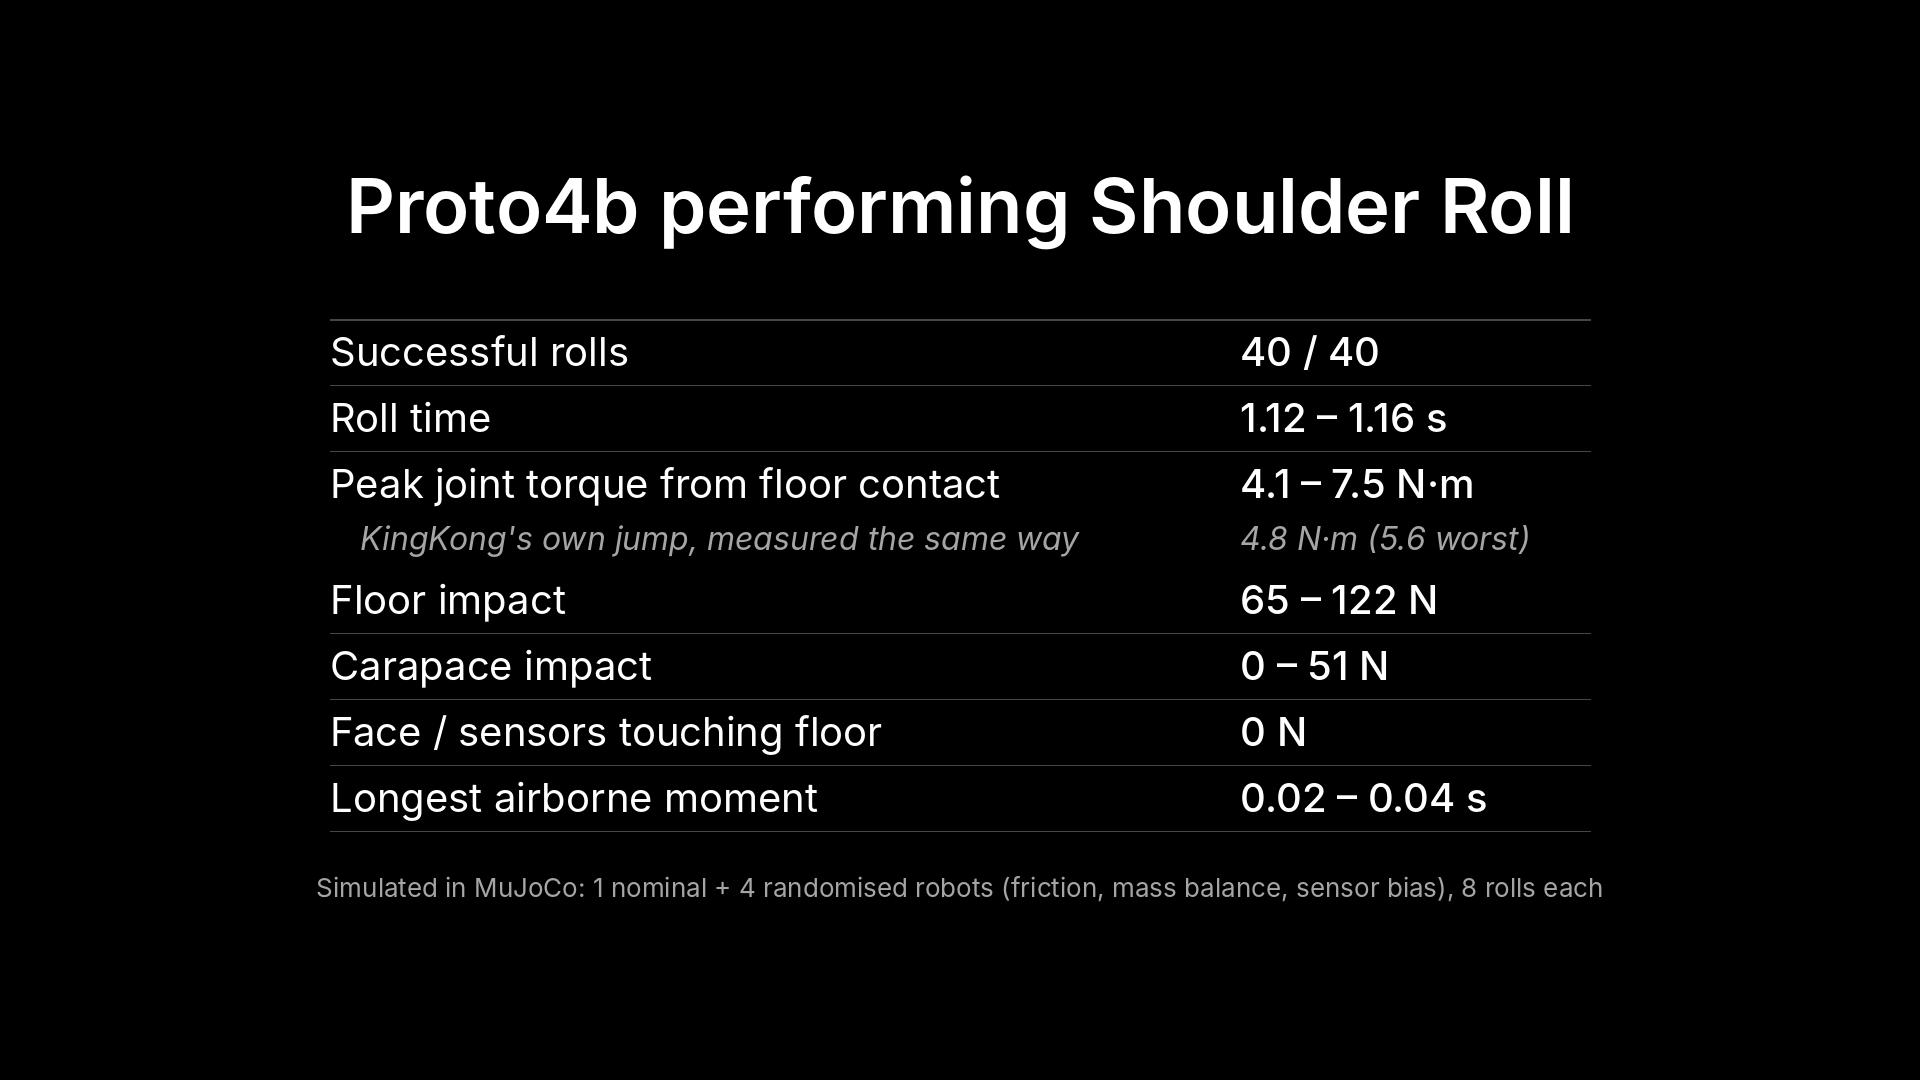
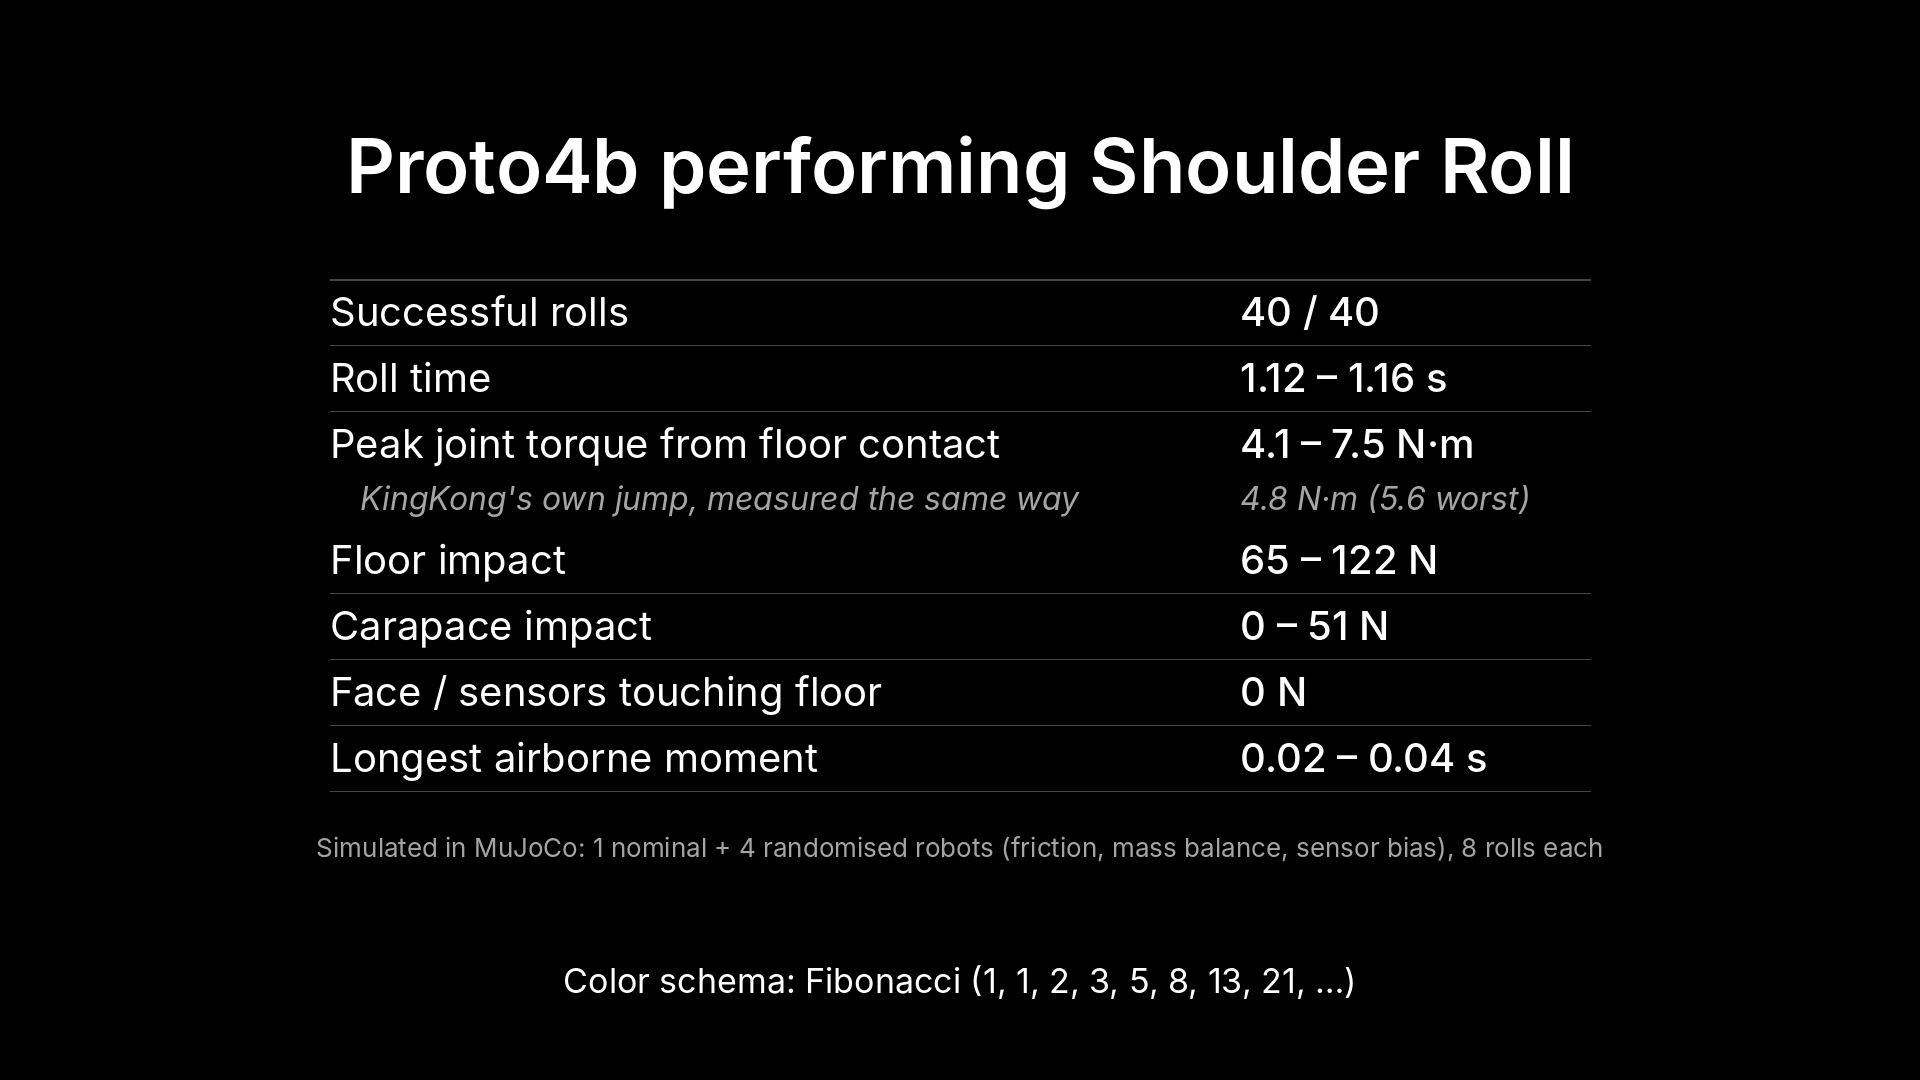
Footage slides: the colour pattern's sequence at the bottom
Claude-Session: https://claude.ai/code/session_018e6UqHzaryVWYHuwL5wCvh

Changed region(s): [[0.1562, 0.275, 0.8438, 0.825], [0.1562, 0.1222, 0.8438, 0.2444], [0.2812, 0.8861, 0.6875, 0.9167]]

diff --git a/studies/footage/make_slide.py b/studies/footage/make_slide.py
@@ -2,7 +2,8 @@
 
     python studies/footage/make_slide.py <slide.json> <out.png>
 
-slide.json: {"title": str, "rows": [[label, value, style?], ...], "footnote": str}.
+slide.json: {"title": str, "rows": [[label, value, style?], ...], "footnote": str,
+"schema": str (optional, the colour pattern, drawn at the bottom)}.
 A row whose style is "note" is drawn smaller, grey and italic (a comparison line).
 1920x1080, Inter.
 """
@@ -26,7 +27,7 @@ WHITE, GREY, LINE = (255, 255, 255), (165, 165, 165), (70, 70, 70)
 rows = spec["rows"]
 row_h = [66 if (r[2:] or [""])[0] != "note" else 50 for r in rows]
 table_h = sum(row_h)
-top = (H - (110 + 50 + table_h + 90)) // 2
+top = (H - (110 + 50 + table_h + 90)) // 2 - (40 if spec.get("schema") else 0)
 tw = dr.textlength(spec["title"], font=f_title)
 dr.text(((W - tw) / 2, top), spec["title"], font=f_title, fill=WHITE)
 y = top + 110 + 50
@@ -45,5 +46,9 @@ for r, rh in zip(rows, row_h):
             dr.line([(x_label, y), (x_end, y)], fill=LINE, width=1)
 fw = dr.textlength(spec["footnote"], font=f_foot)
 dr.text(((W - fw) / 2, y + 40), spec["footnote"], font=f_foot, fill=GREY)
+if spec.get("schema"):
+    f_schema = ImageFont.truetype(FONT.format("Regular"), 34)
+    sw = dr.textlength(spec["schema"], font=f_schema)
+    dr.text(((W - sw) / 2, H - 120), spec["schema"], font=f_schema, fill=WHITE)
 img.save(sys.argv[2])
 print("wrote", sys.argv[2])
